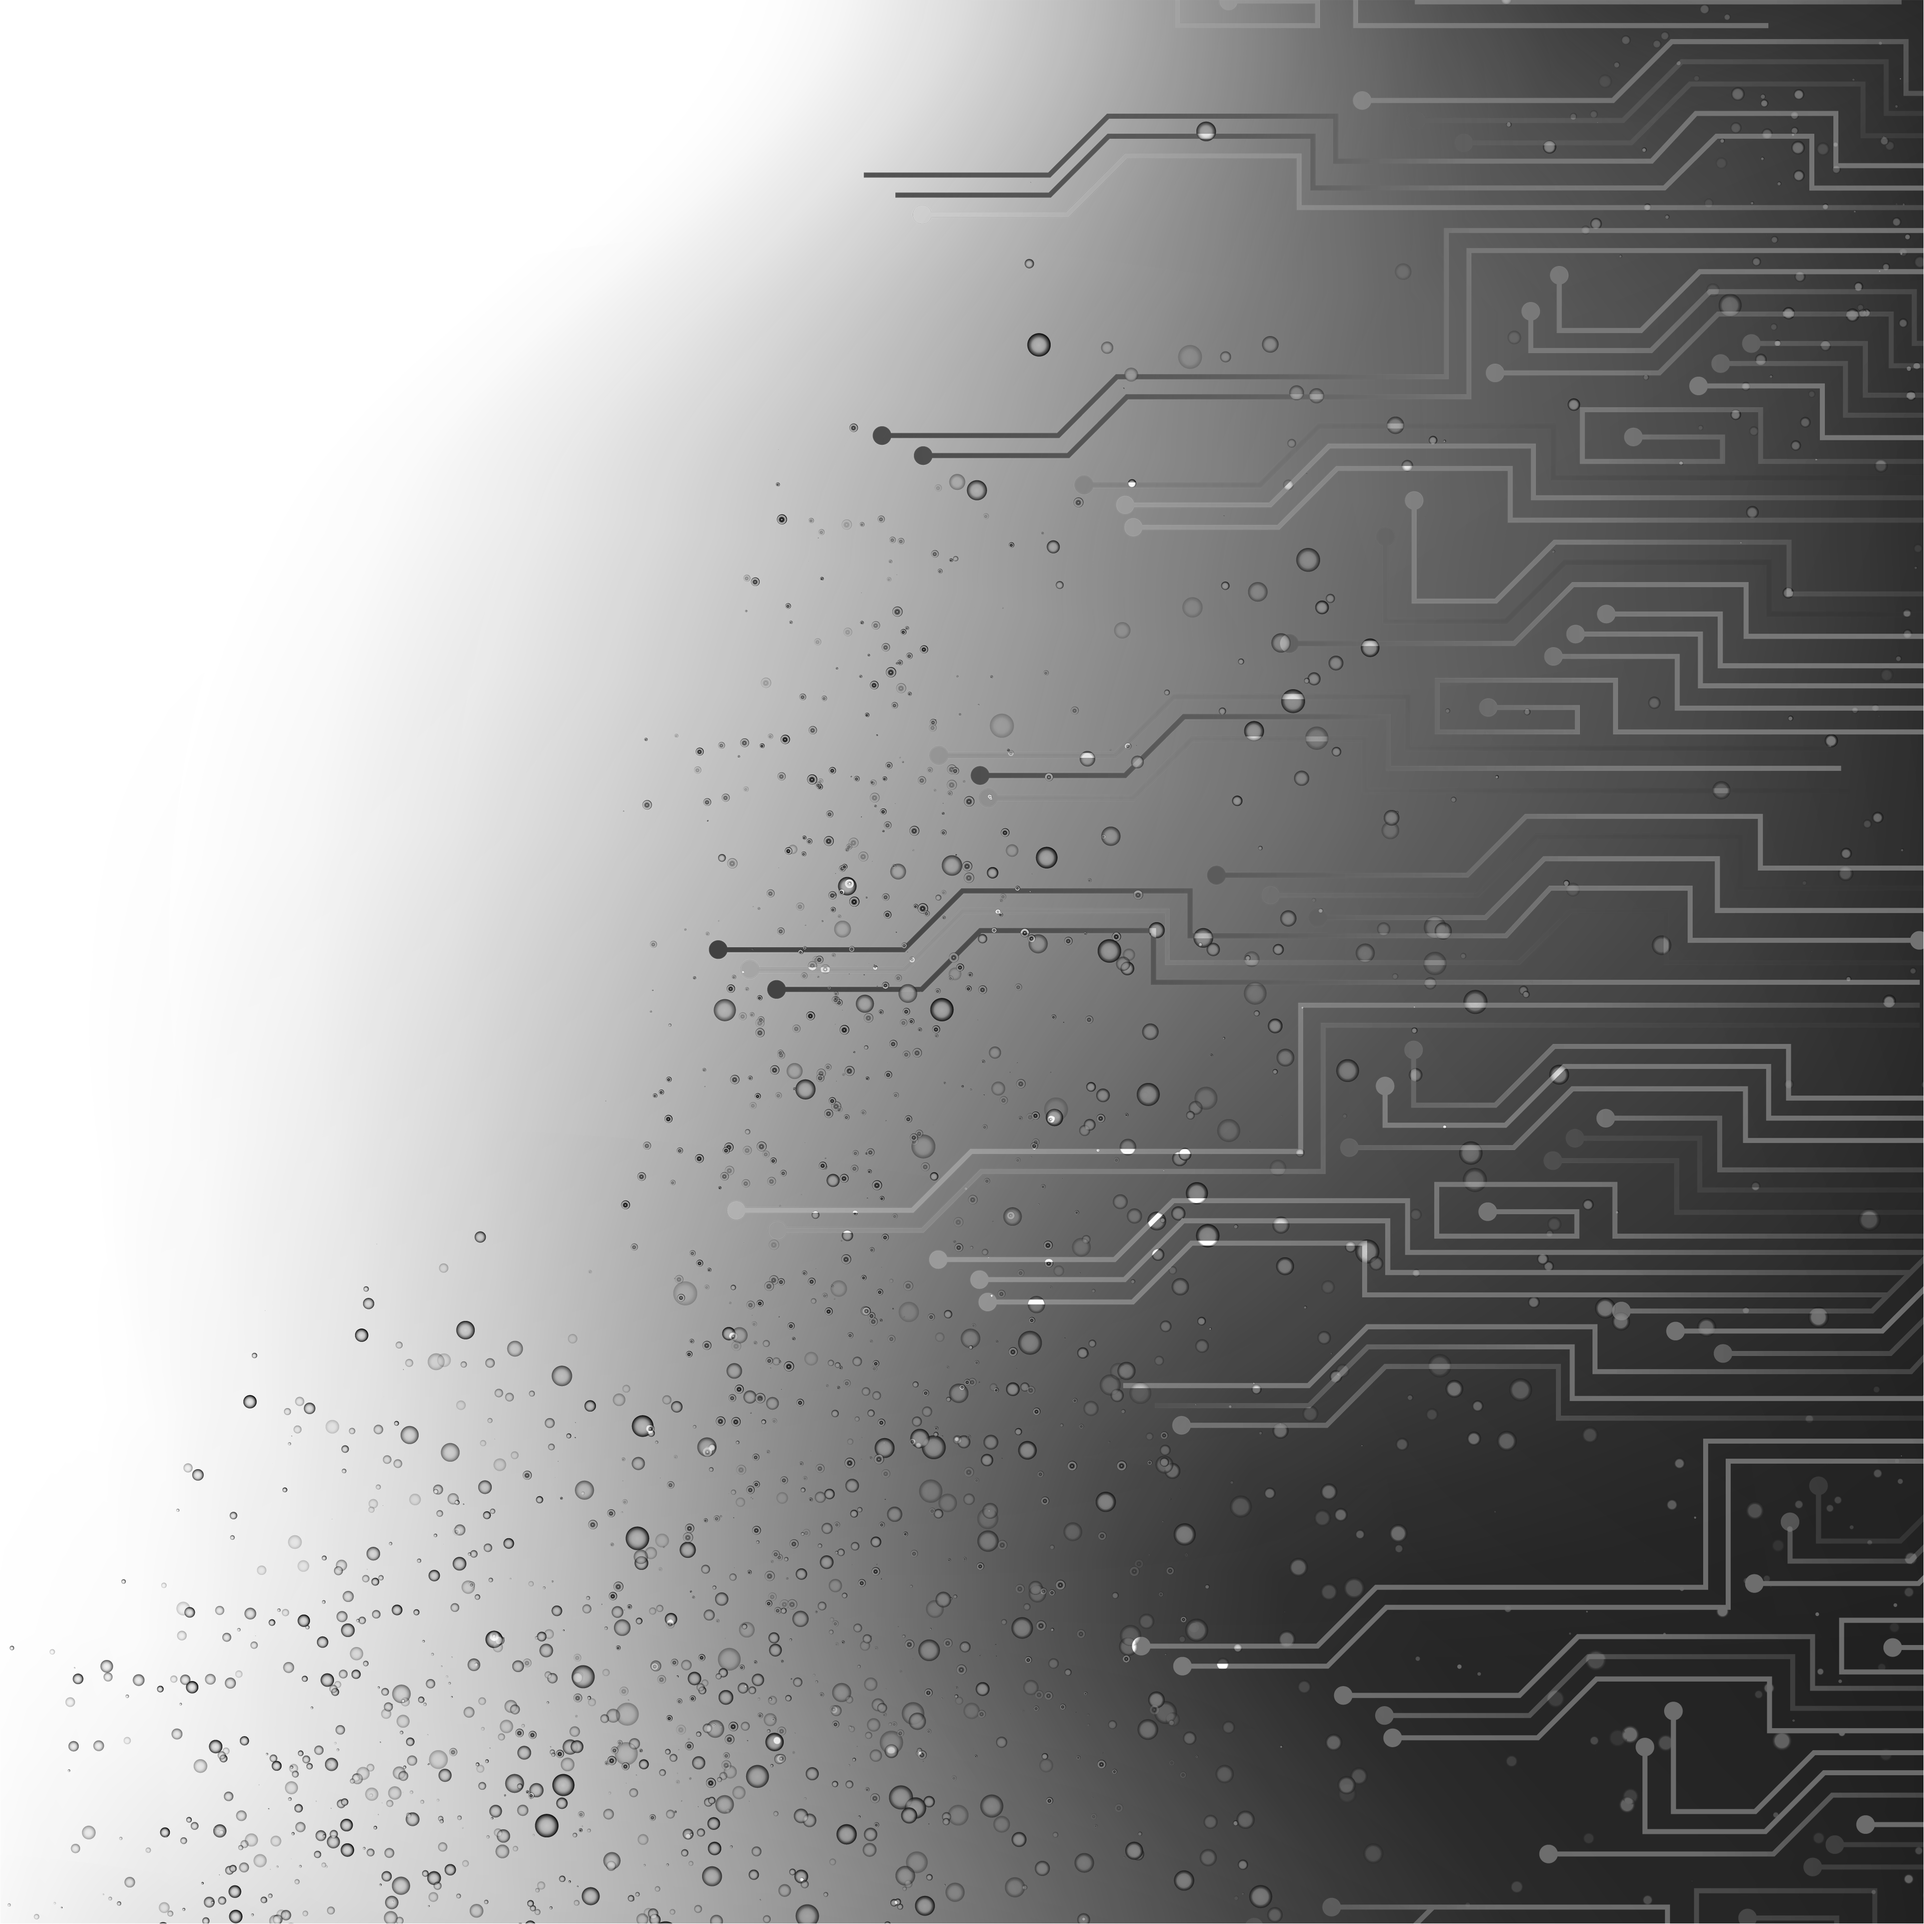
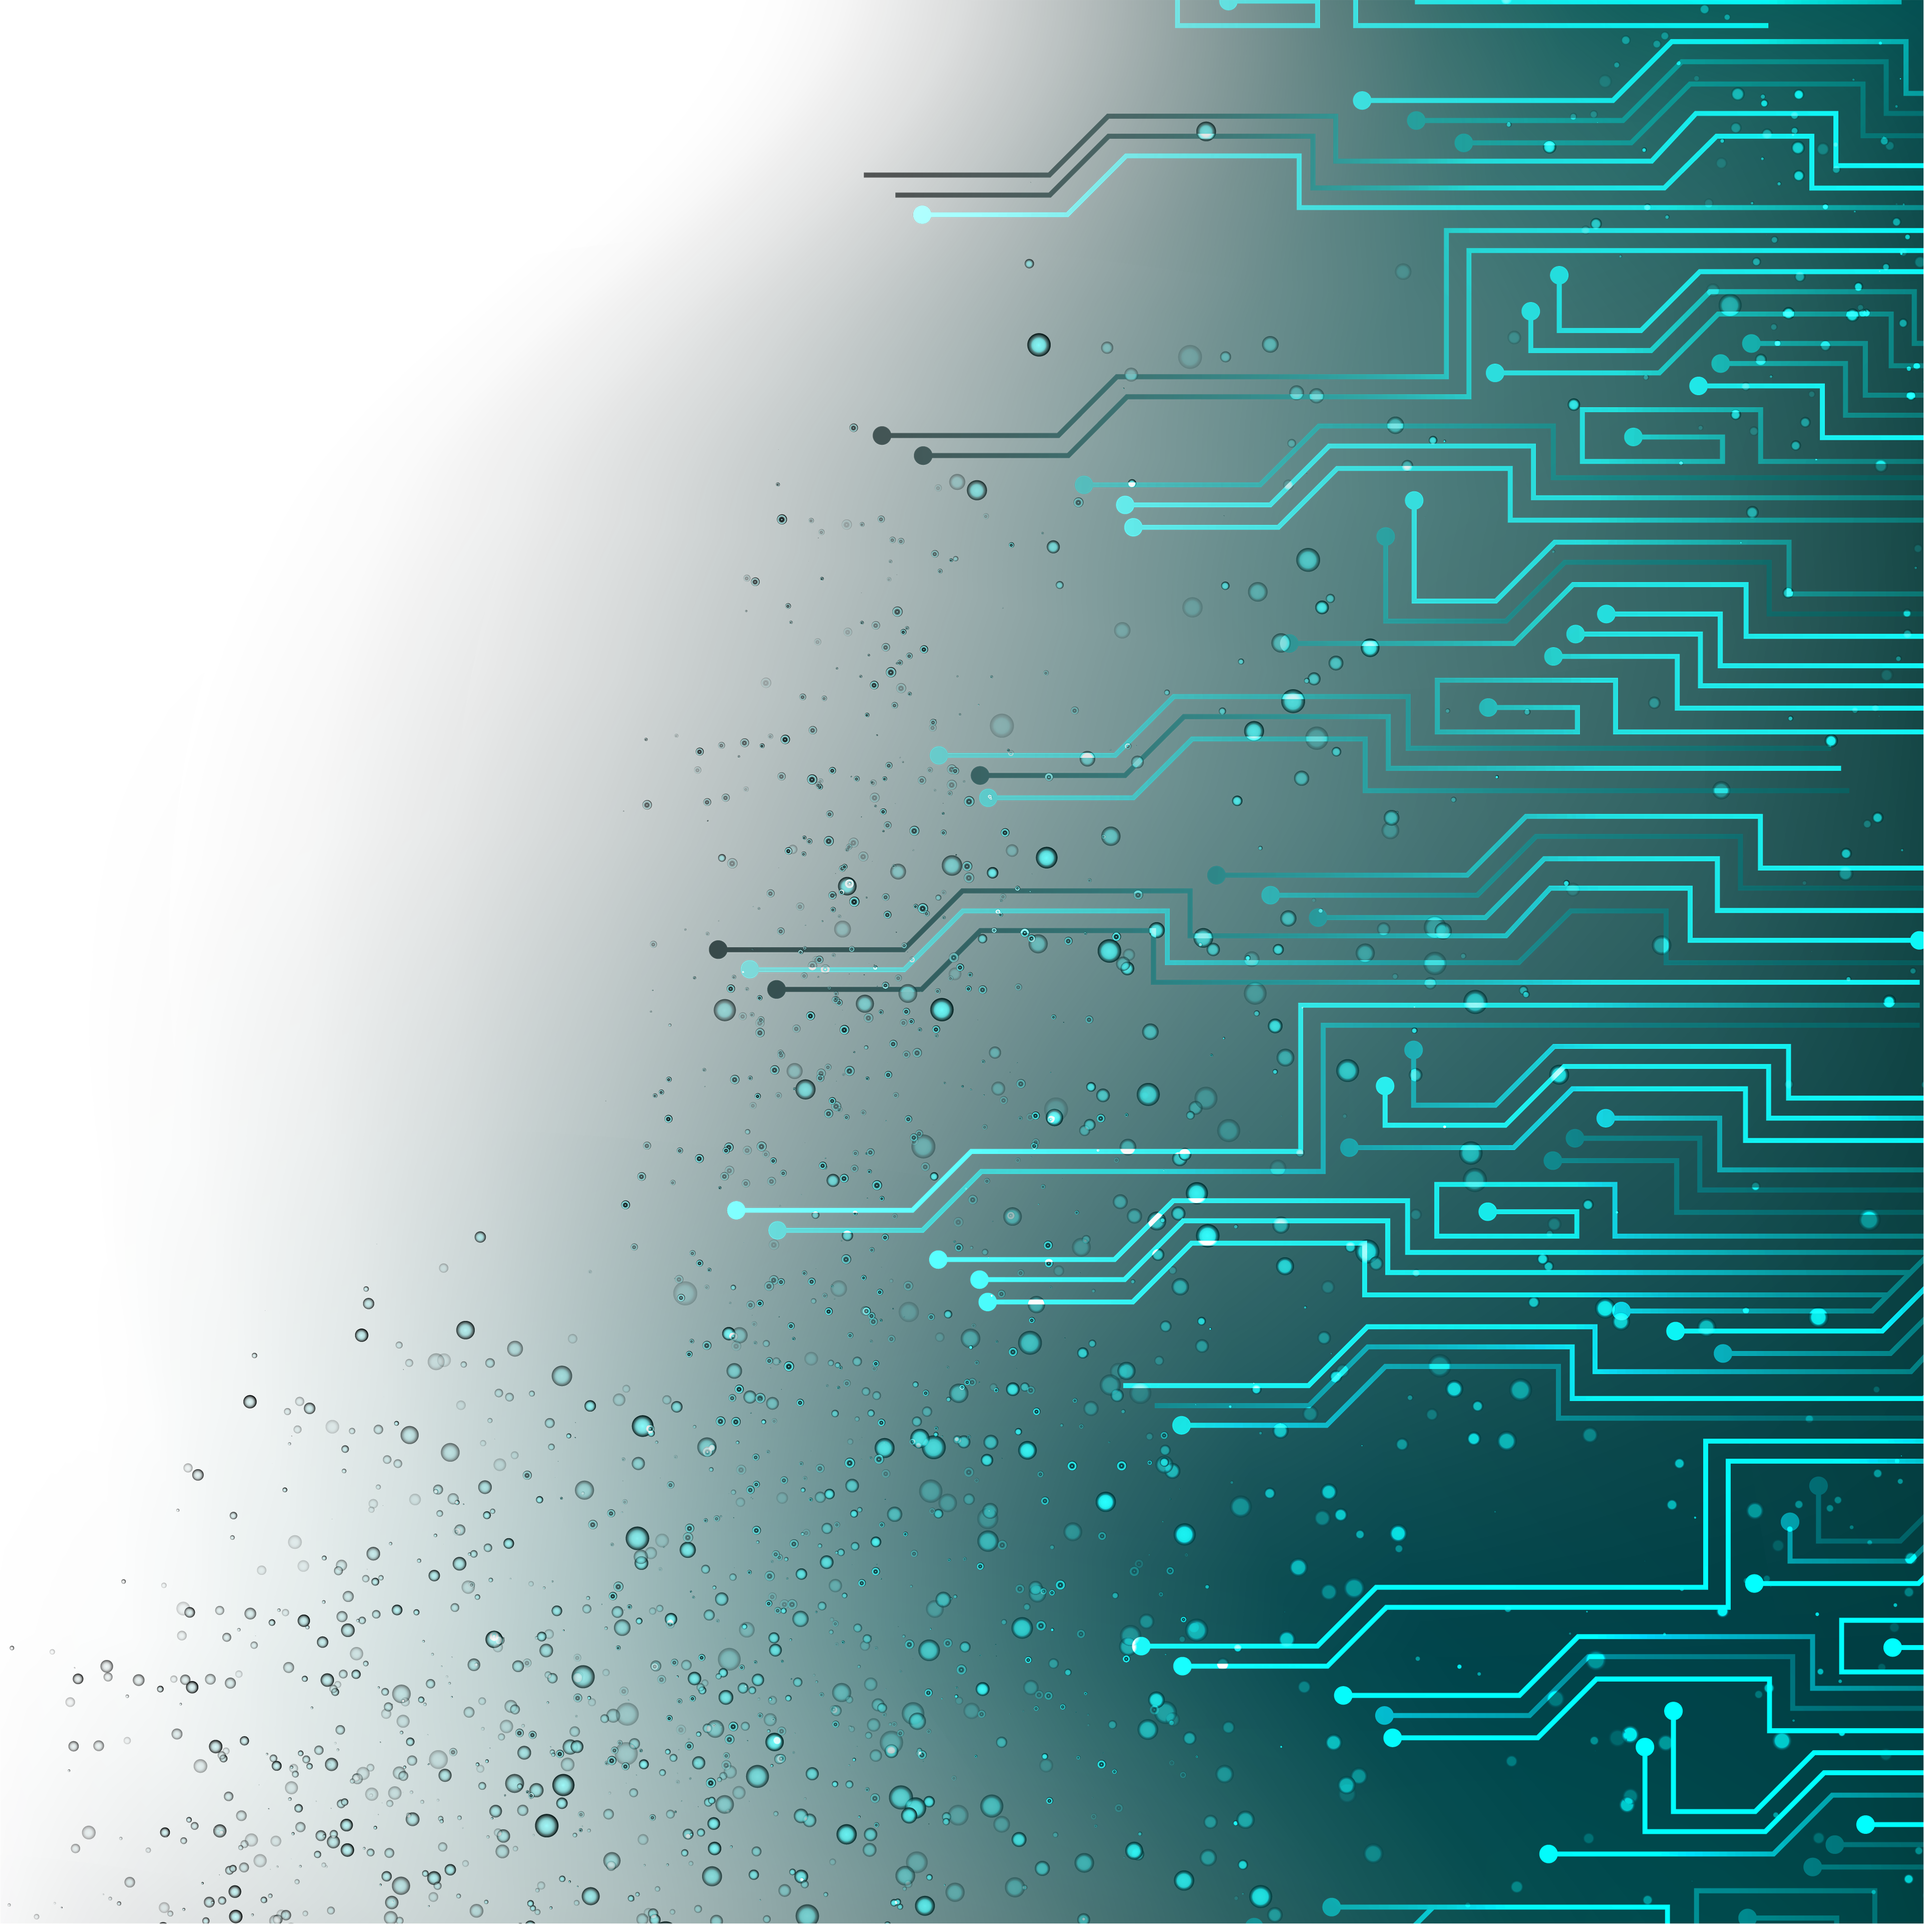
New Aesthetic

diff --git a/index.html b/index.html
@@ -18,17 +18,17 @@
 	<meta property="og:image" content="https://saghen.github.io/Eric-Portfolio/imgs/og_image.png">
 	<meta property="og:title" content="Sea of Technology">
 	<meta property="og:locale" content="en_US">
-	<meta name="description" content="Website for Troy Irving using Parallax and AOS">
-	<meta property="og:description" content="Website for Troy Irving using Parallax and AOS">
+	<meta property="og:description" content="Website for Eric for his blog and things.">
 	<link rel="canonical" href="https://saghen.github.io/Eric-Portfolio/">
 	<meta property="og:url" content="https://saghen.github.io/Eric-Portfolio/">
 	<meta property="og:site_name" content="Sea of Technology">
 </head>
 <body>
     <div id="particles-js">
+        <img src="imgs/Circuit.png" style="position:absolute; height: 100%; right: 0">
         <div id="frontpage-header">
             <h1>Sea of Electrons</h1>
-            <h2>Eric Dyer</h2> 
+            <h2>Eric Dyer</h2>
         </div>
         <div id="frontpage-extra">
             <h3>Other info<br>Can go here</h3>

diff --git a/core.css b/core.css
@@ -86,7 +86,7 @@ a {
 
 /* Front Page */
 #particles-js {
-    background: url(./imgs/Circuit.png);
+    background: #001E1C;
     background-size: contain;
     background-position: 100% 100%;
     background-repeat: no-repeat;
